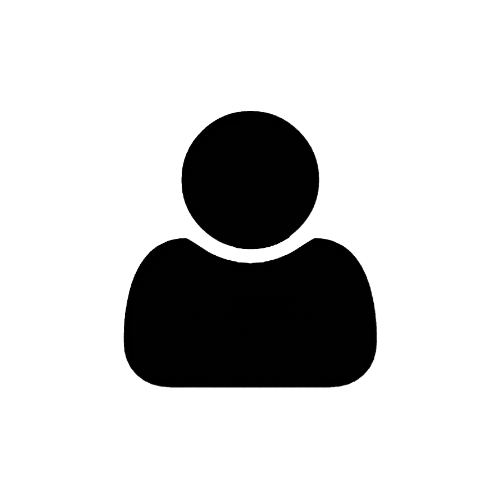
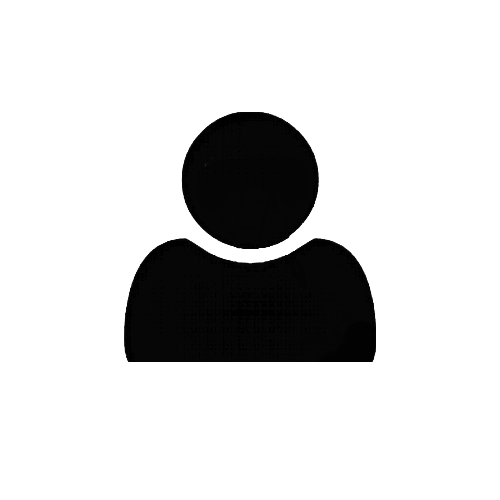
Correcccion de boton

Changed region(s): [[0.24, 0.72, 0.75, 0.78], [0.57, 0.24, 0.6, 0.27]]

diff --git a/rotiseria/src/app/components/navHome/navBar.tsx b/rotiseria/src/app/components/navHome/navBar.tsx
@@ -112,12 +112,12 @@ export const NavBar = () => {
         )}
       </ul>
 
-      {rolUser === null && (
+      {rolUser === null && ( 
         <div className="botonSesion">
-          <button className="btnForm" onClick={toggleFormulario}>
-            Iniciar Sesión
-          </button>
-
+          
+        <button className="imagenBoton" onClick={toggleFormulario}>
+      <img src="./imagenes/imagenBoton/imagenLogin.png" alt="Imagen" />
+      </button>
           {mostrarFormulario && (
             <div className={mostrarFormulario ? "mainForm" : "mainForm hidden"}>
               {/* Aca tambien se importa */}

diff --git a/rotiseria/src/app/components/navHome/navBar.css b/rotiseria/src/app/components/navHome/navBar.css
@@ -70,6 +70,7 @@
     display: flex;
     justify-content: center;
     align-items: center;
+    margin: 0px 0px 15px 0px;
 }
 
 .imagenBoton:hover {
@@ -111,7 +112,8 @@
     }
 
     .botonSesion {
-        width: 100%;
+        width: 50px;
+        height: 50px;
         justify-content: center;
         position: static;
         /* Resetear la posición del botón en vista móvil */
